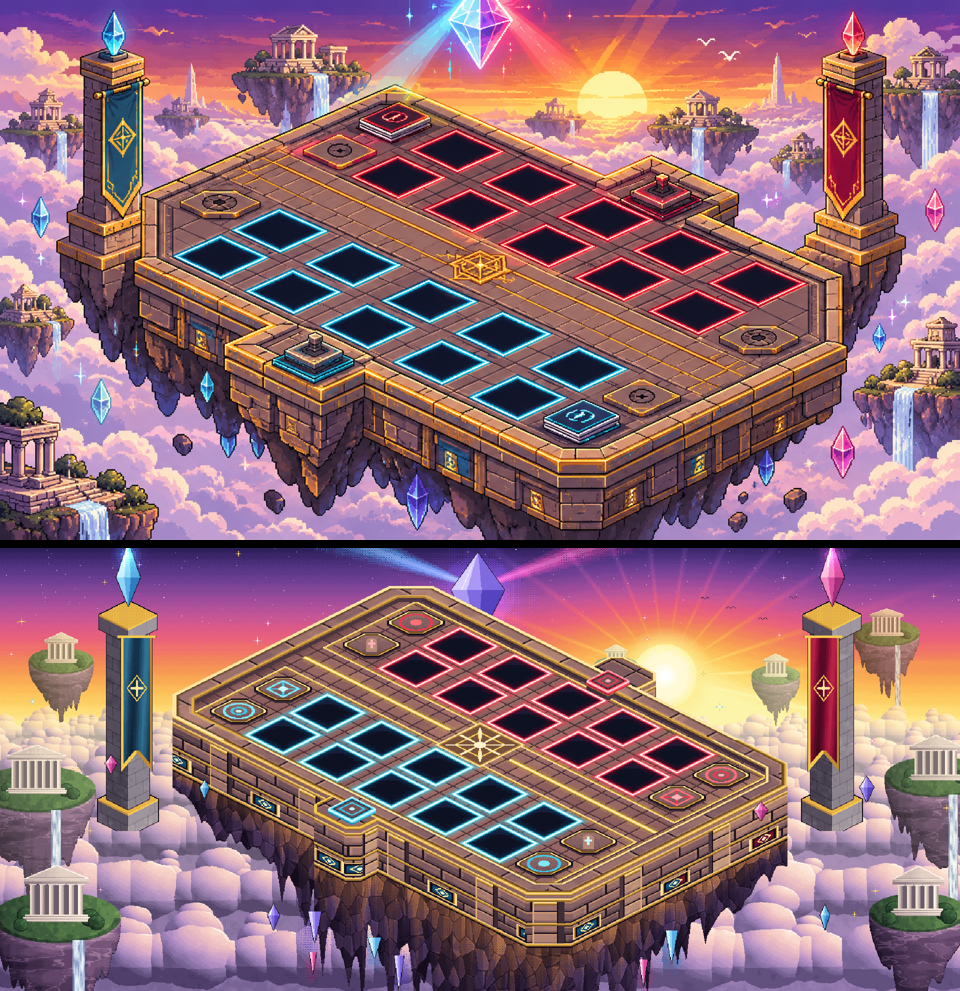
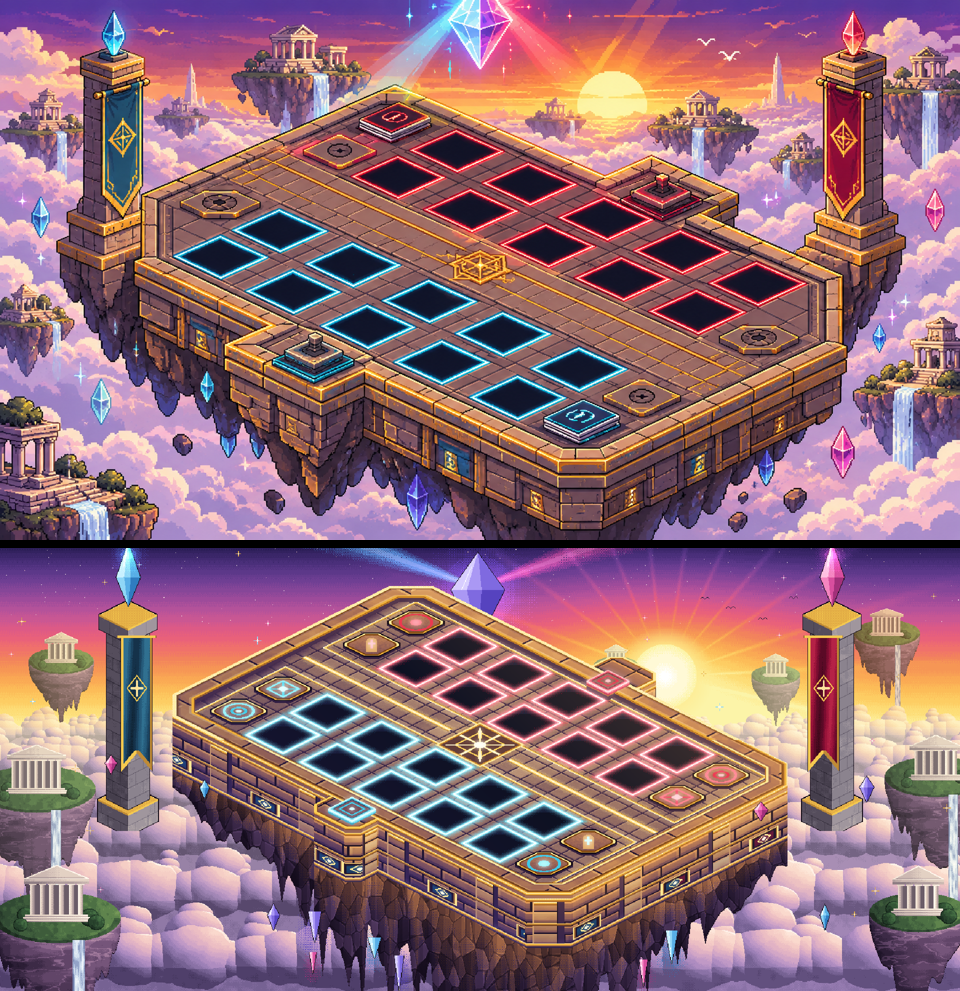
Sky Temple board: hue-shifted ramps, smooth shading, sun/shade grading, bloom
Claude-Session: https://claude.ai/code/session_01Qe4uUGdeQoSEXRKEwKHozW

Changed region(s): [[0.2188, 0.5752, 0.8438, 0.9687], [0.1562, 0.7568, 0.2812, 0.8174], [0.2812, 0.8174, 0.3125, 0.8476]]

diff --git a/src/art/arena-sky/board2.ts b/src/art/arena-sky/board2.ts
@@ -7,7 +7,7 @@
 // sigil niches) and the faceted rock mass with hanging crystals.
 
 import { type Color, PixelCanvas, mix } from '../pixel';
-import { SKY, bayer8, clamp01, fbm, noise, tone } from './kit';
+import { SKY, bayer8, clamp01, fbm, noise } from './kit';
 
 export const K = 2;
 export const SKY_BOARD2 = { x: 36, y: 10, w: 568 * K, h: 350 * K } as const;
@@ -28,14 +28,41 @@ const ROW_V = [-72, -36, 0, 36, 72] as const;
 const ZONE_R = 16;
 
 const hx = (s: string): Color => parseInt(s, 16);
-const FLOOR = ['4a3138', '5a3b40', '6b4749', '7c5352', '8c5f5e', '986863', 'a47268', 'b07e70', 'bc8c7c', 'c89c8a'].map(hx);
-const BLOCK = ['1c1420', '2a1e2a', '3a2a34', '4b3640', '5d434b', '705157', '856062', '9a706a', 'b08273', 'c69a7e', 'dcb58c'].map(hx);
+const FLOOR = ['1c1228', '2c1c38', '402a48', '553852', '6c4a5a', '83605f', '987266', 'ad8670', 'c09a7c', 'd2b08c', 'e4c8a0'].map(hx);
+const BLOCK = ['160c1c', '241430', '33203f', '452c49', '5a3a50', '734a54', '8f5c55', 'ab7055', 'c88a58', 'e0a866', 'f2c784', 'fbe0a6'].map(hx);
 const ROCKW = ['2a1a1e', '3c2526', '523230', '6b4238', '87543f', 'a56a48', 'c38452'].map(hx);
 const ROCKV = ['140c1c', '1e1428', '2a1c36', '382645', '473155', '573d66', '684a78'].map(hx);
-const GOLD = ['3e2610', '6b4a1e', '93672a', 'bf8a35', 'e2ac45', 'f5c94f', 'fde29a', 'fff4cf'].map(hx);
-const WARM = hx('e09a52');
+const GOLD = ['4a2408', '7a4210', 'a8621a', 'd08a24', 'eeb03a', 'fcd058', 'ffe894', 'fff8d8'].map(hx);
+const WARM = hx('ffa850');
 const INK = hx('140c18');
 type Owner = 0 | 1;
+
+/**
+ * Smooth shading: a colour along a ramp for t ∈ 0..1, linearly blended between stops and lightly
+ * posterised (48 steps) — painterly gradients instead of flat dithered bands.
+ */
+function tone(r: readonly Color[], t: number, _x?: number, _y?: number, _soft?: number): Color {
+  const n = r.length - 1;
+  const f = Math.round(Math.max(0, Math.min(1, t)) * 48) / 48 * n;
+  const i = Math.min(n - 1, Math.floor(f));
+  return mix(r[i], r[i + 1], f - i);
+}
+const SUN = hx('ffb060');
+const SHADE = hx('2a1c5a');
+const SKYFILL = hx('3a2c80');
+const BOUNCE = hx('a888dc');
+/** Light on the top: sun-warm toward the far right (the sunset), violet shade toward the near left. */
+function gradeTop(c: Color, u: number, v: number): Color {
+  const s = (v * 0.8 - u * 0.25) / 130;
+  return s < 0 ? mix(c, SUN, Math.min(1, -s) * 0.24) : mix(c, SHADE, Math.min(1, s) * 0.3);
+}
+/** Light on a wall: the right faces catch the sun at the top, the left faces sit in violet sky light; lilac bounce at the foot. */
+function gradeWall(c: Color, d: number, face: 'L' | 'R' | 'C'): Color {
+  const f = clamp01(d / WALL);
+  let o = face === 'L' ? mix(c, SKYFILL, 0.2 + f * 0.22) : mix(mix(c, SUN, (1 - f) * (face === 'R' ? 0.2 : 0.1)), SHADE, f * 0.34);
+  if (f > 0.8) o = mix(o, BOUNCE, (f - 0.8) * 0.9);
+  return o;
+}
 const NEON: Record<Owner, readonly Color[]> = {
   0: ['0b1a2c', '0f3150', '125a80', '1d8cb3', '3fc8e6', '7fe9f6', 'c8fbff', 'ffffff'].map(hx),
   1: ['26081a', '4d0c26', '82122f', 'b81d3b', 'ea3a4f', 'ff6f78', 'ffb2b6', 'ffffff'].map(hx),
@@ -108,7 +135,8 @@ const CELLS = cells();
 function blockColor(ramp: readonly Color[], base: number, fa: number, fk: number, id: number, jointA: number, jointK: number, ax: number, ay: number, grain: number): Color {
   if (fa > 1 - jointA || fk > 1 - jointK) return ramp[0]; // joints (right / bottom of each block)
   let t = base + (id - 0.5) * 0.16 + grain;
-  if (fk < jointK * 1.3) return mix(tone(ramp, clamp01(t + 0.14), ax, ay), WARM, 0.3); // sun-warmed top edge
+  if (fk < jointK * 1.3) return mix(tone(ramp, clamp01(t + 0.2), ax, ay), WARM, 0.55); // sun-warmed top edge
+  t += (0.5 - fk) * 0.16; // each block: lit top, shaded foot
   if (fa < jointA * 1.4) t += 0.1; // lit leading edge
   if (fk > 1 - jointK * 2.6) t -= 0.12; // shaded foot
   return tone(ramp, clamp01(t), ax, ay, 0.5);
@@ -125,8 +153,8 @@ function floorTile(u: number, v: number, ax: number, ay: number, lit: number): C
   const cv = Math.floor((v + 660) / T);
   const fu = (u + 660) / T - cu;
   const fv = (v + 660) / T - cv;
-  if (fu < 0.08 || fv < 0.08) return FLOOR[0];
-  let t = 0.52 + (noise(cu * 1.7, cv * 2.3, 5) - 0.5) * 0.3 + lit;
+  if (fu < 0.08 || fv < 0.08) return FLOOR[2];
+  let t = 0.6 + (noise(cu * 1.7, cv * 2.3, 5) - 0.5) * 0.26 + lit;
   if (fu < 0.17 || fv < 0.17) t += 0.1;
   else if (fu > 0.9 || fv > 0.9) t -= 0.07;
   t += (fbm(u / 26, v / 26, 3, 11) - 0.5) * 0.18 + (noise(u * 1.6, v * 1.6, 12) - 0.5) * 0.05;
@@ -406,6 +434,54 @@ function rockColor(gx: number, gy: number, f: number, face: 'L' | 'R' | 'C', ax:
   return k <= 0 ? warm : k >= 1 ? cold : bayer8(ax, ay) < k ? cold : warm;
 }
 
+/** Emissive colours (neon, bright gold): never graded, and they bloom. */
+const EMIT = new Set<Color>([...NEON[0].slice(3), ...NEON[1].slice(3), ...GOLD.slice(4)]);
+const BLOOM = new Set<Color>([...NEON[0].slice(5), ...NEON[1].slice(5), GOLD[7]]);
+
+/** Soft glow: blur the emissive pixels and screen them back over everything (light spilling on stone). */
+function bloom(p: PixelCanvas, radius: number, gain: number): void {
+  const W = p.w;
+  const H = p.h;
+  const d = p.data;
+  const n = W * H;
+  let src: Float32Array[] = [new Float32Array(n), new Float32Array(n), new Float32Array(n)];
+  for (let i = 0; i < n; i++) {
+    if (!d[i * 4 + 3]) continue;
+    const c = (d[i * 4] << 16) | (d[i * 4 + 1] << 8) | d[i * 4 + 2];
+    if (!BLOOM.has(c)) continue;
+    src[0][i] = d[i * 4];
+    src[1][i] = d[i * 4 + 1];
+    src[2][i] = d[i * 4 + 2];
+  }
+  const blur = (a: Float32Array, horiz: boolean): Float32Array => {
+    const o = new Float32Array(n);
+    const len = horiz ? W : H;
+    const lines = horiz ? H : W;
+    const win = radius * 2 + 1;
+    for (let l = 0; l < lines; l++) {
+      let sum = 0;
+      const at = (k: number) => (horiz ? l * W + k : k * W + l);
+      for (let k = -radius; k < len; k++) {
+        const add = k + radius;
+        if (add < len) sum += a[at(add)];
+        const sub = k - radius - 1;
+        if (sub >= 0) sum -= a[at(sub)];
+        if (k >= 0) o[at(k)] = sum / win;
+      }
+    }
+    return o;
+  };
+  for (let pass = 0; pass < 2; pass++) src = src.map((a) => blur(blur(a, true), false));
+  for (let i = 0; i < n; i++) {
+    if (!d[i * 4 + 3]) continue;
+    for (let ch = 0; ch < 3; ch++) {
+      const g = Math.min(255, src[ch][i] * gain);
+      const v = d[i * 4 + ch];
+      d[i * 4 + ch] = 255 - ((255 - v) * (255 - g)) / 255; // screen
+    }
+  }
+}
+
 // ---------------------------------------------------------------- paint
 
 export function paintSkyBoard2(): PixelCanvas {
@@ -437,6 +513,7 @@ export function paintSkyBoard2(): PixelCanvas {
           else if (Hp === RH) c = rimTop(u, v, ax, ay);
           else c = floorAt(u, v, ax, ay);
         } else c = sideColor(u, v, h, Hp, ax, ay);
+        if (!EMIT.has(c)) c = gradeTop(c, u, v);
         const i = ay * W + ax;
         mask[i] = 1;
         hu[i] = u;
@@ -469,7 +546,10 @@ export function paintSkyBoard2(): PixelCanvas {
         if (mask[y * W + ax]) break;
         const d = k / K - h0;
         let c: Color;
-        if (d <= WALL) c = wallColor(Math.max(0, d), along, face, owner, ax, y);
+        if (d <= WALL) {
+          c = wallColor(Math.max(0, d), along, face, owner, ax, y);
+          if (!EMIT.has(c)) c = gradeWall(c, d, face);
+        }
         else {
           const rd = d - WALL;
           if (rd > depth) break;
@@ -520,5 +600,6 @@ export function paintSkyBoard2(): PixelCanvas {
       }
     }
   }
+  bloom(p, 4, 1.15);
   return p;
 }
